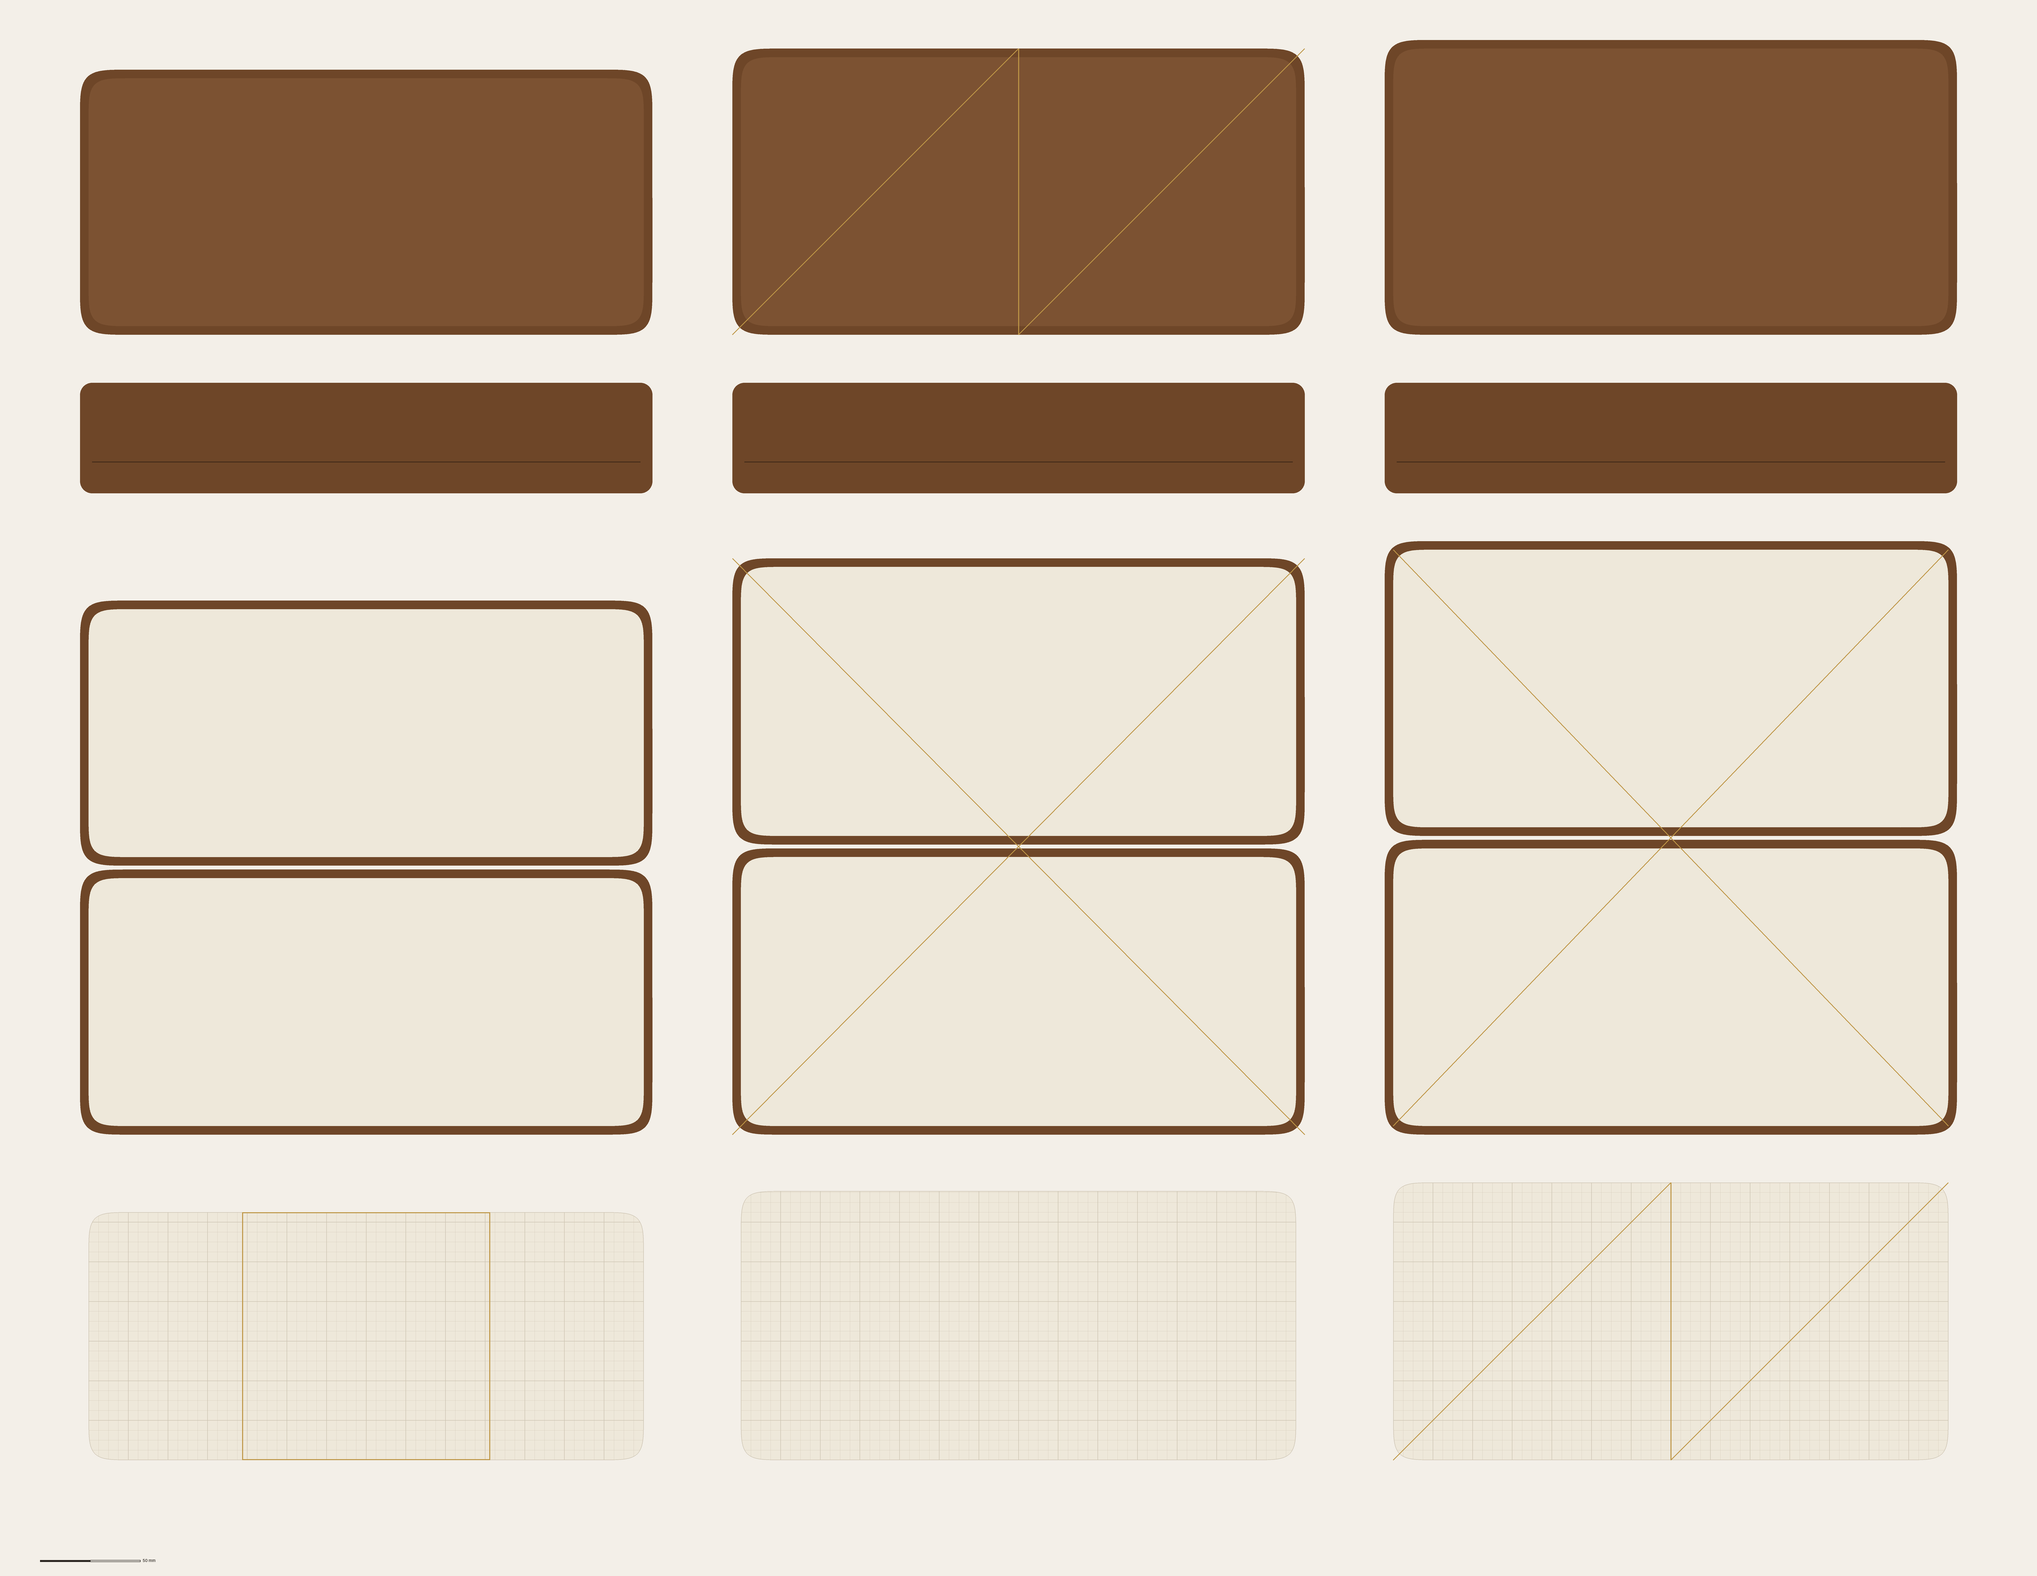
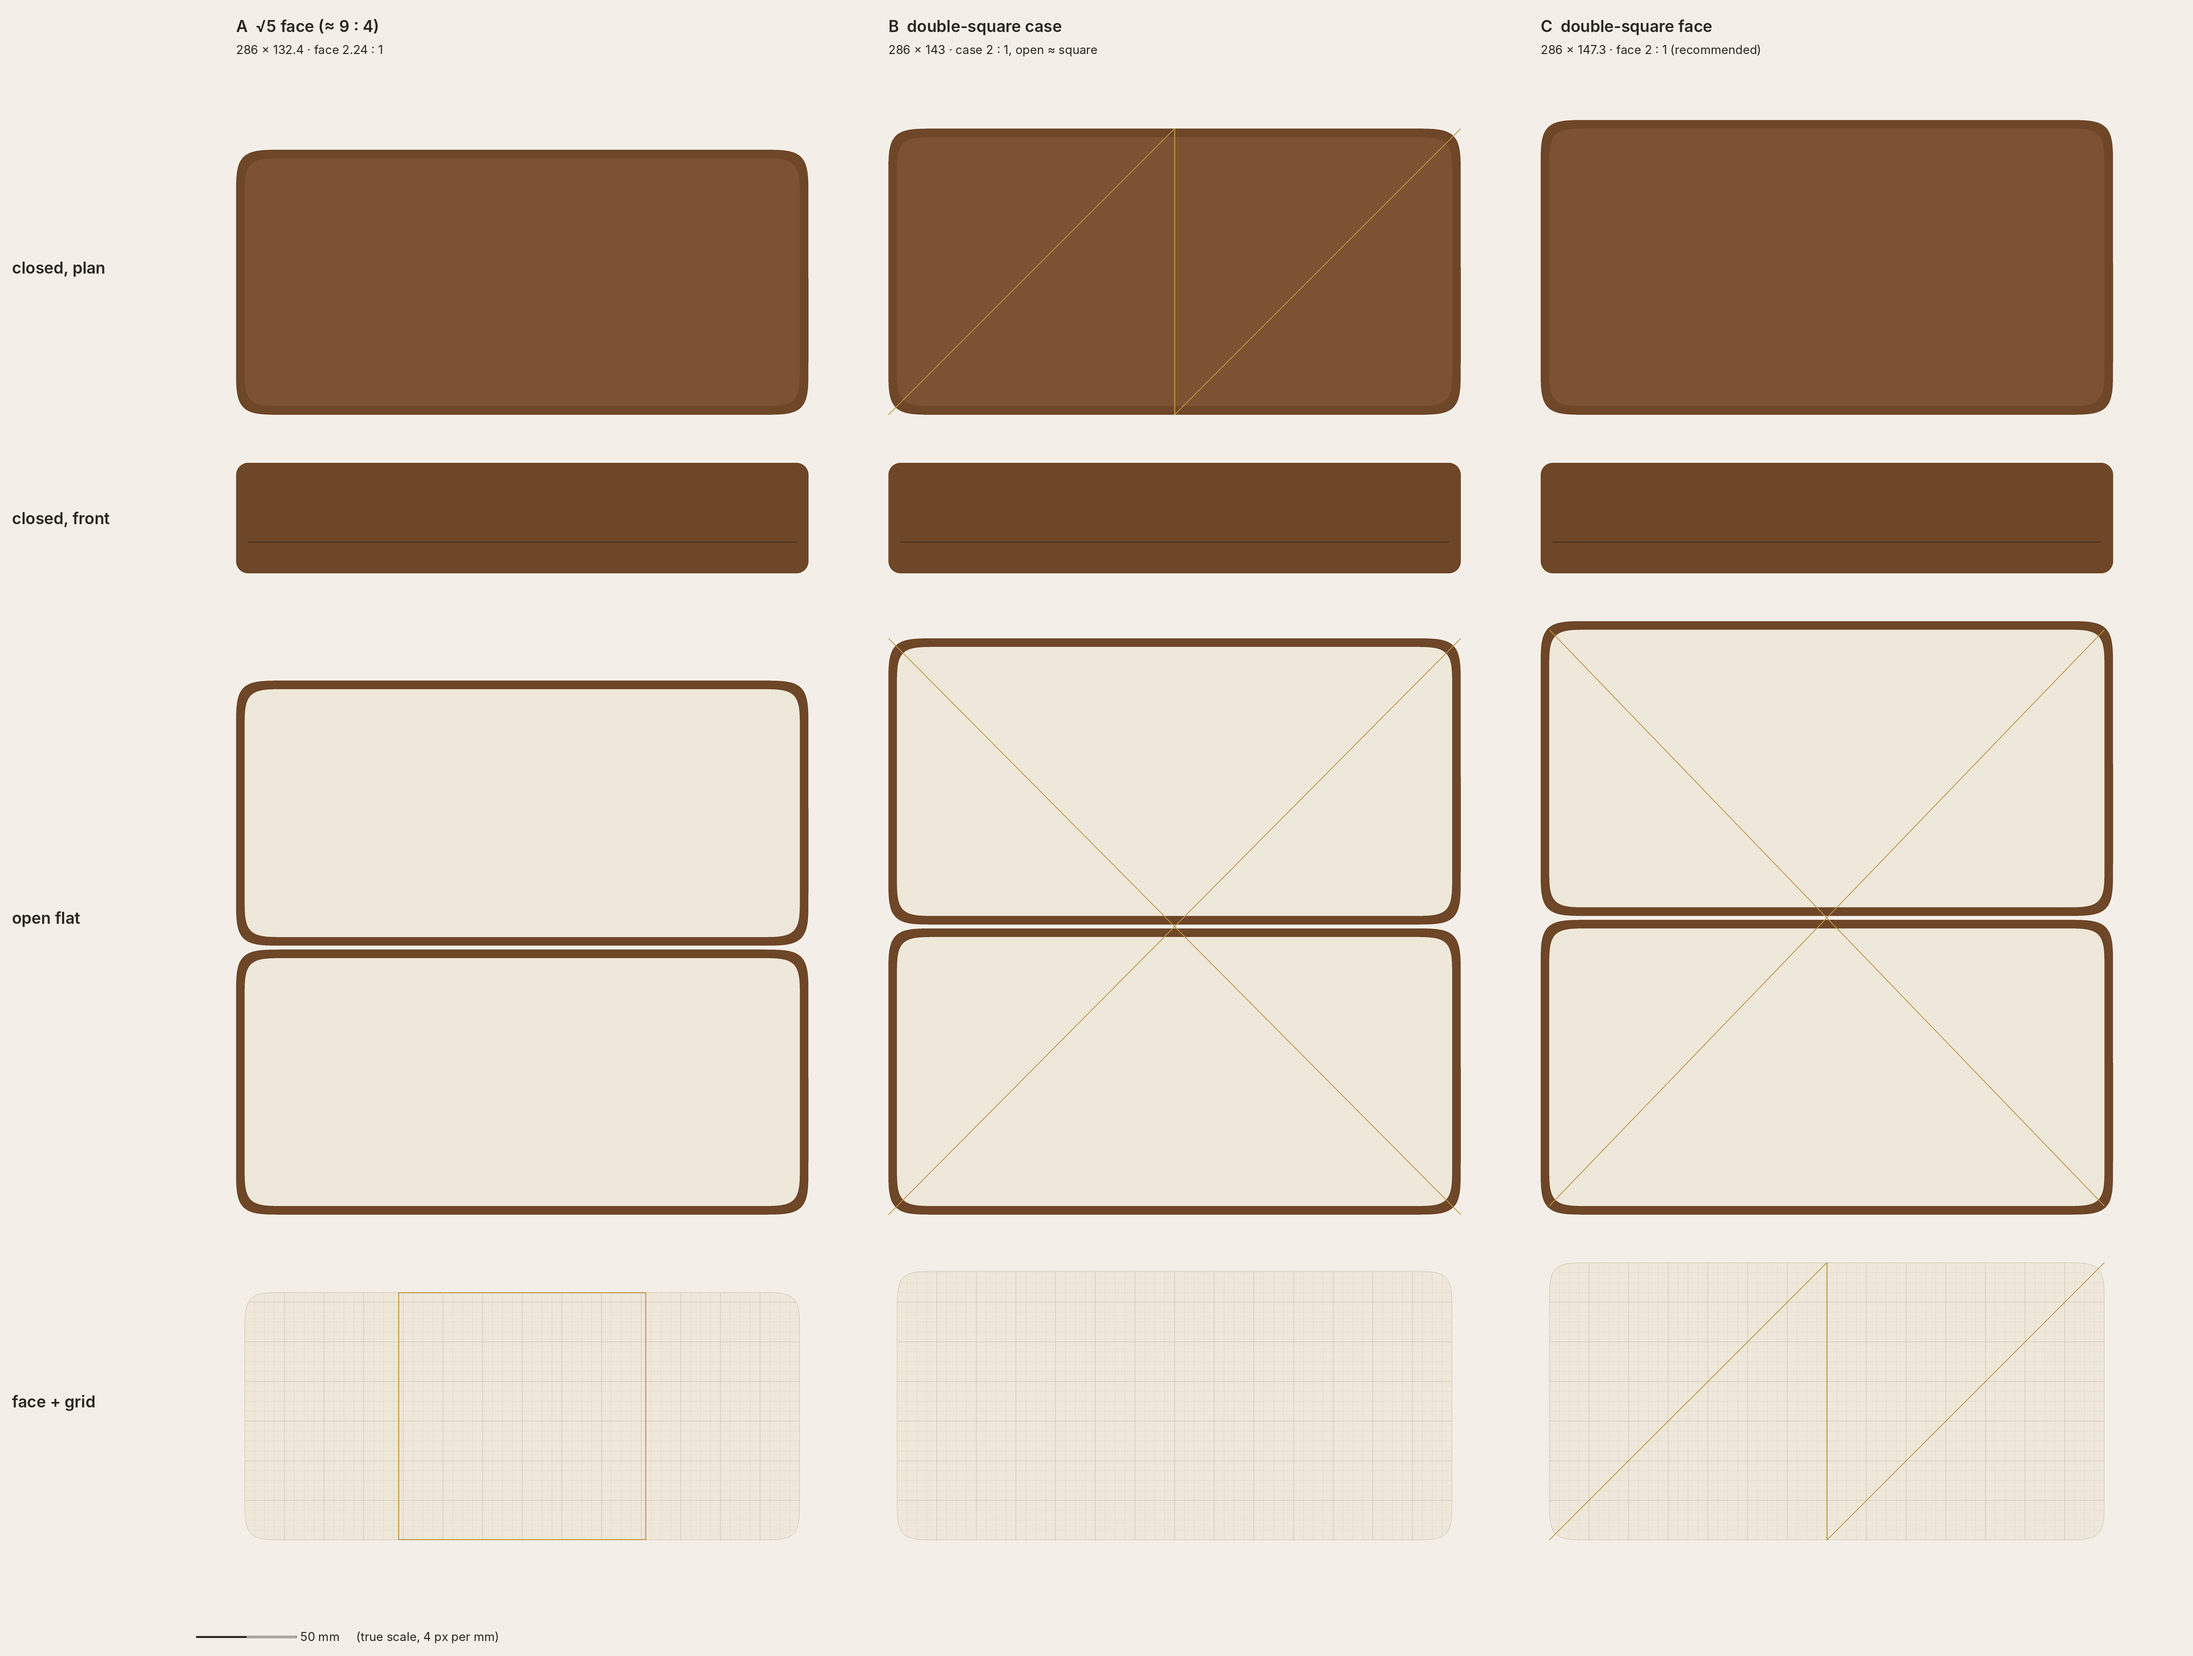
CATHEDRAL case ratios image: column headings (letter, name, W x D, ratio), row labels, scale unit

diff --git a/design/concepts/_mock-src/case_ratios.py b/design/concepts/_mock-src/case_ratios.py
@@ -76,7 +76,31 @@ for ci, (nm, D, M) in enumerate(CANDS):
         d.line([X(ox + WALL), X(t3 + WALL), X(ox + W - WALL), X(t3 + 2 * D + SEAM - WALL)], fill=BRASS, width=bw)
         d.line([X(ox + WALL), X(t3 + 2 * D + SEAM - WALL), X(ox + W - WALL), X(t3 + WALL)], fill=BRASS, width=bw)
 img = img.resize((img.width // S, img.height // S), Image.LANCZOS)
-f.scale_bar(ImageDraw.Draw(img), P * 20, img.height - P * 8, P, 50)
+# labels (coordinator: the owner must be able to read it): column headings, row labels, the scale bar's unit
+from PIL import ImageFont
+FB = "/usr/share/fonts/opentype/inter/Inter-SemiBold.otf"; FR = "/usr/share/fonts/opentype/inter/Inter-Regular.otf"
+LW, TH = 78.0, 40.0                                         # left label column, top heading band (mm)
+out = Image.new("RGB", (int(img.width + LW * P), int(img.height + TH * P)), BG)
+out.paste(img, (int(LW * P), int(TH * P)))
+dd = ImageDraw.Draw(out)
+fh, fs = ImageFont.truetype(FB, int(P * 8.0)), ImageFont.truetype(FR, int(P * 6.0))
+HEAD = {"A": ("A  √5 face (≈ 9 : 4)", "286 × 132.4 · face 2.24 : 1"),
+        "B": ("B  double-square case", "286 × 143 · case 2 : 1, open ≈ square"),
+        "C": ("C  double-square face", "286 × 147.3 · face 2 : 1 (recommended)")}
+for ci, (nm, D, M) in enumerate(CANDS):
+    x = (LW + 20 + ci * colw + 20) * P
+    dd.text((x, P * 16), HEAD[nm][0], font=fh, fill=INK, anchor="ls")
+    dd.text((x, P * 27), HEAD[nm][1], font=fs, fill=INK, anchor="ls")
+    dd.text((x, P * 15), "", font=fs, fill=INK)
+rows = ["closed, plan", "closed, front", "open flat", "face + grid"]
+y = 20.0
+for k, lab in enumerate(rows):
+    yc = TH + y + heights[k] / 2
+    dd.text((P * 6, yc * P), lab, font=fh, fill=INK, anchor="lm")
+    y += heights[k] + gap_r
+f.scale_bar(dd, (LW + 20) * P, out.height - P * 10, P, 50); dd.rectangle([(LW + 20 + 50) * P + 2, out.height - P * 14, (LW + 20 + 50) * P + P * 12, out.height - P * 4], fill=BG); dd.text(((LW + 20 + 50) * P + P * 2, out.height - P * 10 + 1), "50 mm", font=fs, fill=INK, anchor="lm")
+dd.text(((LW + 20 + 50) * P + P * 30, out.height - P * 10 + 1), "(true scale, 4 px per mm)", font=fs, fill=INK, anchor="lm")
+img = out
 p = f.dest("cathedral", "cathedral-s9-case-ratios-4px-per-mm.png"); img.save(p, optimize=True); print(p, img.size)
 for nm, D, M in CANDS:
     fh = D - 8.6

diff --git a/design/branches/concepts/cathedral/how-it-looks-and-feels.md b/design/branches/concepts/cathedral/how-it-looks-and-feels.md
@@ -42,7 +42,7 @@ Seed: CHAMBER rev 2 + FOLD-105 v1.1. Owner record: `design/owner.md` (14:12 onwa
 
 <figure>
 <img src="img/cathedral-s9-case-ratios-4px-per-mm.png" alt="Three case candidates side by side at true scale, columns A, B and C left to right. Each column shows, top to bottom: the closed case from above, its front elevation, the case open flat, and one face with its module grid. Thin brass construction lines mark the ratio: in A a square centred in the face; in B the closed case divided into two squares and the open case crossed as one square; in C the face divided into two squares and the two open faces crossed as one square.">
-<figcaption><b>Three candidate ratios, true scale</b> (4 px per mm, scale bar 50 mm). Columns, left to right: <b>A</b> D 132.4, <b>B</b> D 143, <b>C</b> D 147.3. Rows: closed from above; closed front (55.2 thick, the same for all); open flat; one face with its module grid (M = 277.4 / 56 = 4.954, the 4M pitch lines heavier). Brass lines show the ratio each candidate is built on.</figcaption>
+<figcaption><b>Three candidate ratios, true scale</b> (4 px per mm, scale bar 50 mm; the image labels its columns and rows, at the coordinator's request, so it reads on its own). Columns, left to right: <b>A</b> D 132.4, <b>B</b> D 143, <b>C</b> D 147.3. Rows: closed from above; closed front (55.2 thick, the same for all); open flat; one face with its module grid (M = 277.4 / 56 = 4.954, the 4M pitch lines heavier). Brass lines show the ratio each candidate is built on.</figcaption>
 </figure>
 
 | | **A. √5 face** (≈ 9 : 4, "the major ninth") | **B. The double-square case** | **C. The double-square face** |
